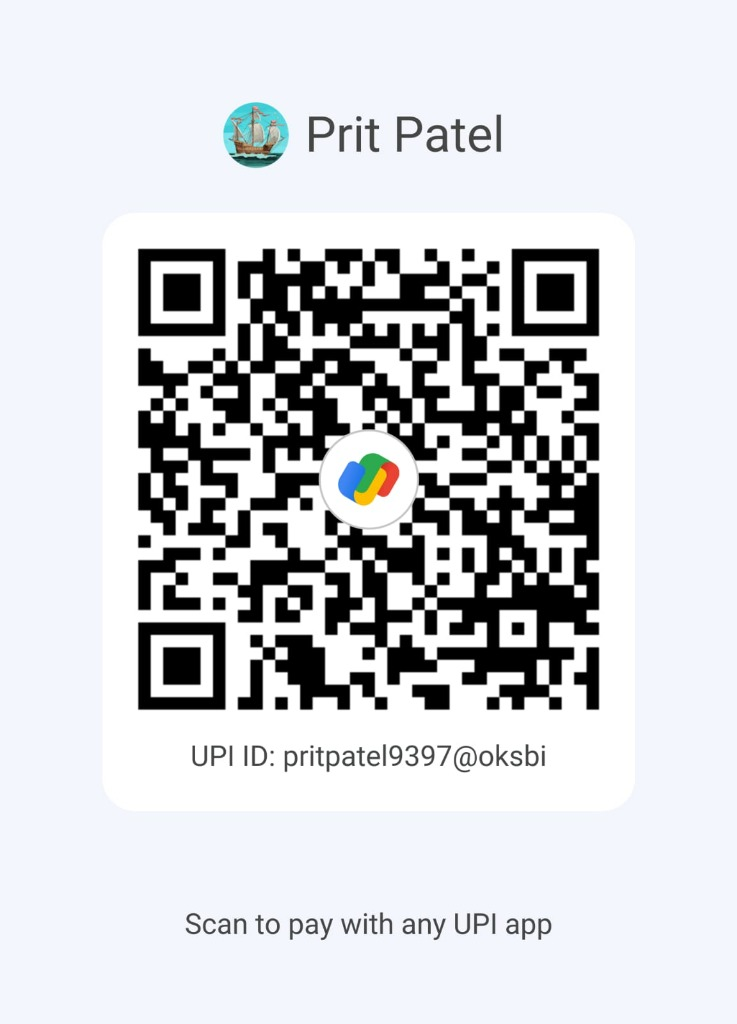
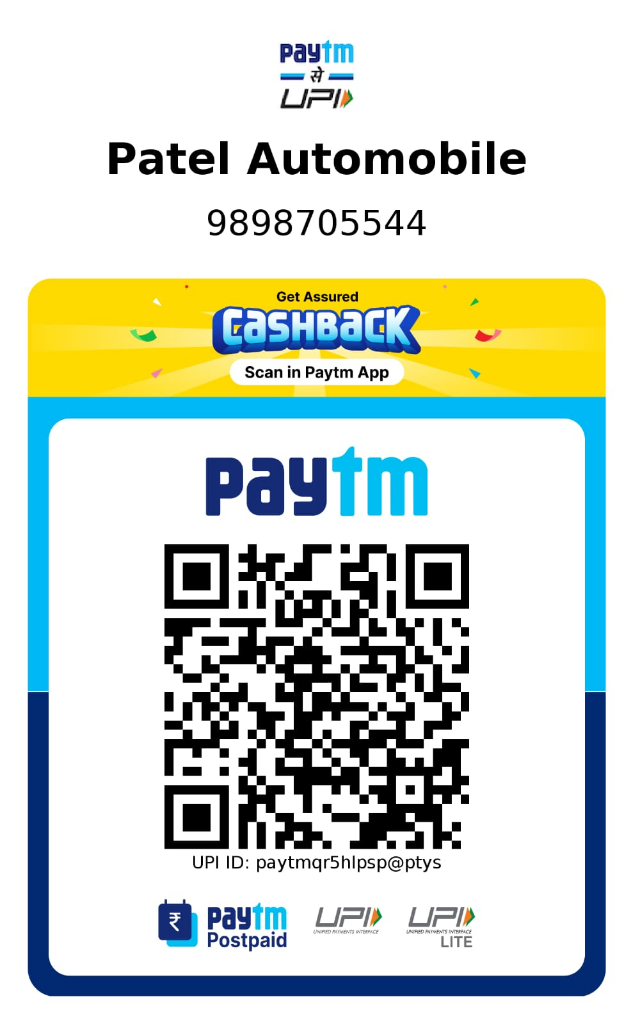
Update official Paytm QR code image and default UPI ID paytmqr5hlpsp@ptys across all frontends

diff --git a/frontend/src/context/AuthContext.jsx b/frontend/src/context/AuthContext.jsx
@@ -5,15 +5,17 @@ import { fetchCloudGarageInfo, pushCloudGarageInfo, fetchCloudAdminProfiles, fet
 export const DEFAULT_GARAGE_INFO = {
   garage_name: 'Patel Automobiles',
   address: 'Near Dandi Pond, Dandi, Valsad, Gujarat - 396385',
-  phone: '+91 81403 71414',
-  whatsapp_number: '+91 81403 71414',
+  phone: '+91 98987 05544',
+  whatsapp_number: '+91 98987 05544',
   logo: '/logo.png',
-  upi_id: '',
-  upi_payee_name: 'Patel Automobiles',
-  upi_qr_code: '',
+  upi_id: 'paytmqr5hlpsp@ptys',
+  upi_payee_name: 'Patel Automobile',
+  upi_qr_code: '/upi_qr.jpg',
   timing_text: 'Mon - Sat: 08:30 AM - 06:30 PM, Sun: 09:00 AM - 02:00 PM',
+  safety_message: 'Thank you for choosing us! Wish you a safe & smooth ride. 🛵⛑',
   mechanics_list: 'Unassigned, Amitbhai Mechanic, Vishalbhai Mechanic, Manojbhai Mechanic',
-  default_labour_charge: 100.00
+  default_labour_charge: 100.00,
+  default_min_stock: 5
 };
 
 const AuthContext = createContext();

diff --git a/frontend_admin/src/context/AuthContext.jsx b/frontend_admin/src/context/AuthContext.jsx
@@ -5,15 +5,17 @@ import { fetchCloudGarageInfo, pushCloudGarageInfo, fetchCloudAdminProfiles, fet
 export const DEFAULT_GARAGE_INFO = {
   garage_name: 'Patel Automobiles',
   address: 'Near Dandi Pond, Dandi, Valsad, Gujarat - 396385',
-  phone: '+91 81403 71414',
-  whatsapp_number: '+91 81403 71414',
+  phone: '+91 98987 05544',
+  whatsapp_number: '+91 98987 05544',
   logo: '/logo.png',
-  upi_id: '',
-  upi_payee_name: 'Patel Automobiles',
-  upi_qr_code: '',
+  upi_id: 'paytmqr5hlpsp@ptys',
+  upi_payee_name: 'Patel Automobile',
+  upi_qr_code: '/upi_qr.jpg',
   timing_text: 'Mon - Sat: 08:30 AM - 06:30 PM, Sun: 09:00 AM - 02:00 PM',
+  safety_message: 'Thank you for choosing us! Wish you a safe & smooth ride. 🛵⛑',
   mechanics_list: 'Unassigned, Amitbhai Mechanic, Vishalbhai Mechanic, Manojbhai Mechanic',
-  default_labour_charge: 100.00
+  default_labour_charge: 100.00,
+  default_min_stock: 5
 };
 
 const AuthContext = createContext();

diff --git a/frontend_website/src/context/AuthContext.jsx b/frontend_website/src/context/AuthContext.jsx
@@ -5,15 +5,17 @@ import { fetchCloudGarageInfo, pushCloudGarageInfo, fetchCloudAdminProfiles, fet
 export const DEFAULT_GARAGE_INFO = {
   garage_name: 'Patel Automobiles',
   address: 'Near Dandi Pond, Dandi, Valsad, Gujarat - 396385',
-  phone: '+91 81403 71414',
-  whatsapp_number: '+91 81403 71414',
+  phone: '+91 98987 05544',
+  whatsapp_number: '+91 98987 05544',
   logo: '/logo.png',
-  upi_id: '',
-  upi_payee_name: 'Patel Automobiles',
-  upi_qr_code: '',
+  upi_id: 'paytmqr5hlpsp@ptys',
+  upi_payee_name: 'Patel Automobile',
+  upi_qr_code: '/upi_qr.jpg',
   timing_text: 'Mon - Sat: 08:30 AM - 06:30 PM, Sun: 09:00 AM - 02:00 PM',
+  safety_message: 'Thank you for choosing us! Wish you a safe & smooth ride. 🛵⛑',
   mechanics_list: 'Unassigned, Amitbhai Mechanic, Vishalbhai Mechanic, Manojbhai Mechanic',
-  default_labour_charge: 100.00
+  default_labour_charge: 100.00,
+  default_min_stock: 5
 };
 
 const AuthContext = createContext();

diff --git a/frontend/src/pages/SettingsPage.jsx b/frontend/src/pages/SettingsPage.jsx
@@ -196,8 +196,8 @@ export default function SettingsPage() {
         default_labour_charge: garageInfo.default_labour_charge || 100.00,
         default_min_stock: (garageInfo.default_min_stock !== undefined && garageInfo.default_min_stock !== '') ? garageInfo.default_min_stock : 5,
         upi_qr_code: garageInfo.upi_qr_code || '/upi_qr.jpg',
-        upi_id: garageInfo.upi_id || 'pritpatel9397@oksbi',
-        upi_payee_name: garageInfo.upi_payee_name || 'Prit Patel'
+        upi_id: garageInfo.upi_id || 'paytmqr5hlpsp@ptys',
+        upi_payee_name: garageInfo.upi_payee_name || 'Patel Automobile'
       });
     }
 

diff --git a/frontend_admin/src/pages/SettingsPage.jsx b/frontend_admin/src/pages/SettingsPage.jsx
@@ -196,8 +196,8 @@ export default function SettingsPage() {
         default_labour_charge: garageInfo.default_labour_charge || 100.00,
         default_min_stock: (garageInfo.default_min_stock !== undefined && garageInfo.default_min_stock !== '') ? garageInfo.default_min_stock : 5,
         upi_qr_code: garageInfo.upi_qr_code || '/upi_qr.jpg',
-        upi_id: garageInfo.upi_id || 'pritpatel9397@oksbi',
-        upi_payee_name: garageInfo.upi_payee_name || 'Prit Patel'
+        upi_id: garageInfo.upi_id || 'paytmqr5hlpsp@ptys',
+        upi_payee_name: garageInfo.upi_payee_name || 'Patel Automobile'
       });
     }
 

diff --git a/frontend_website/src/pages/SettingsPage.jsx b/frontend_website/src/pages/SettingsPage.jsx
@@ -196,8 +196,8 @@ export default function SettingsPage() {
         default_labour_charge: garageInfo.default_labour_charge || 100.00,
         default_min_stock: (garageInfo.default_min_stock !== undefined && garageInfo.default_min_stock !== '') ? garageInfo.default_min_stock : 5,
         upi_qr_code: garageInfo.upi_qr_code || '/upi_qr.jpg',
-        upi_id: garageInfo.upi_id || 'pritpatel9397@oksbi',
-        upi_payee_name: garageInfo.upi_payee_name || 'Prit Patel'
+        upi_id: garageInfo.upi_id || 'paytmqr5hlpsp@ptys',
+        upi_payee_name: garageInfo.upi_payee_name || 'Patel Automobile'
       });
     }
 
